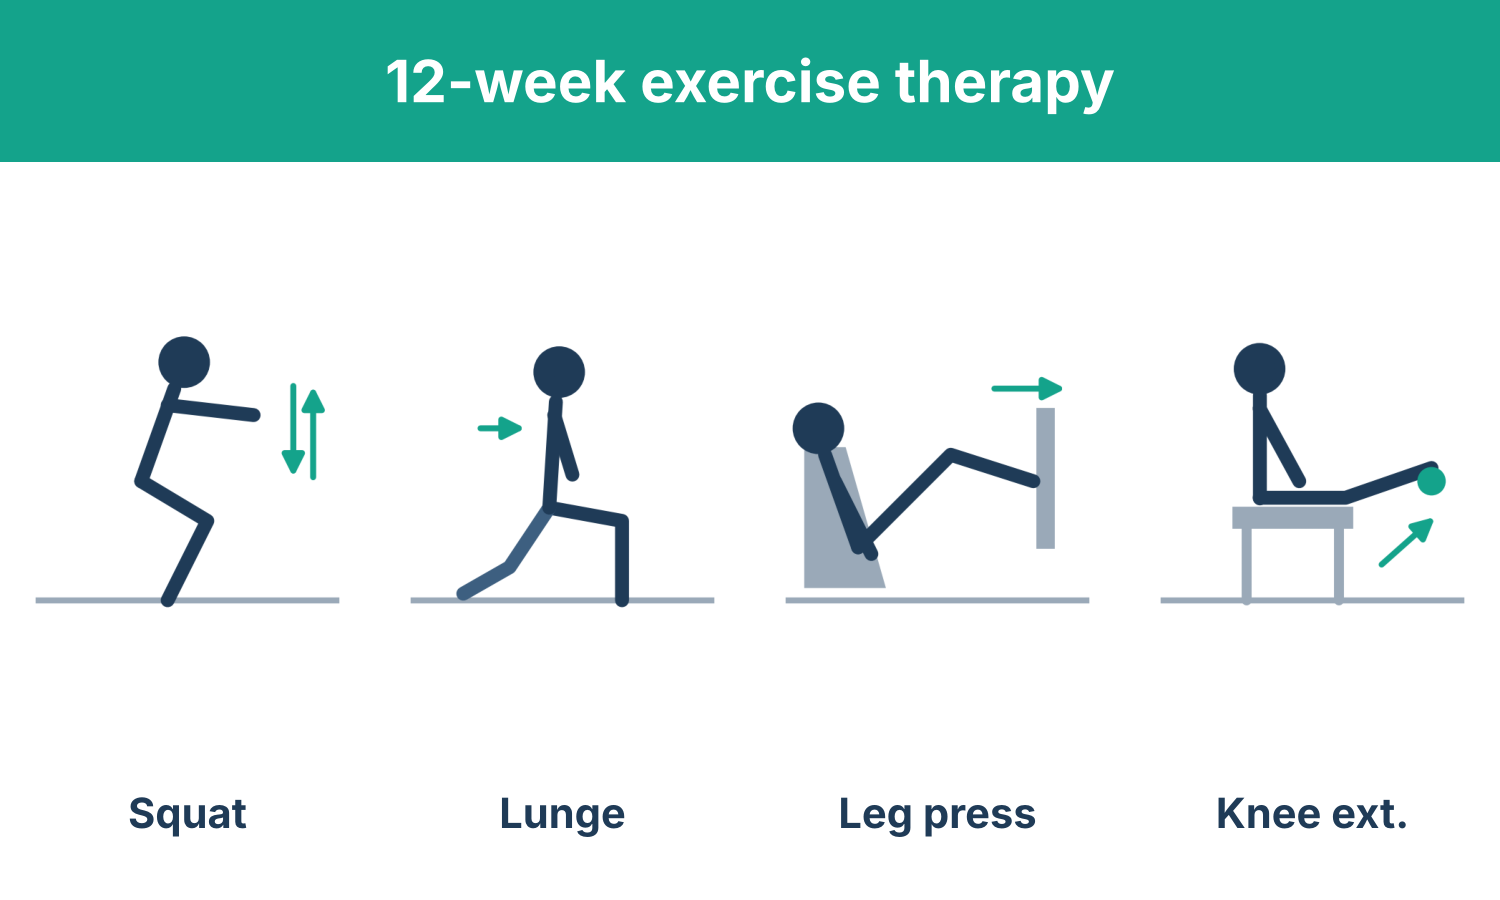
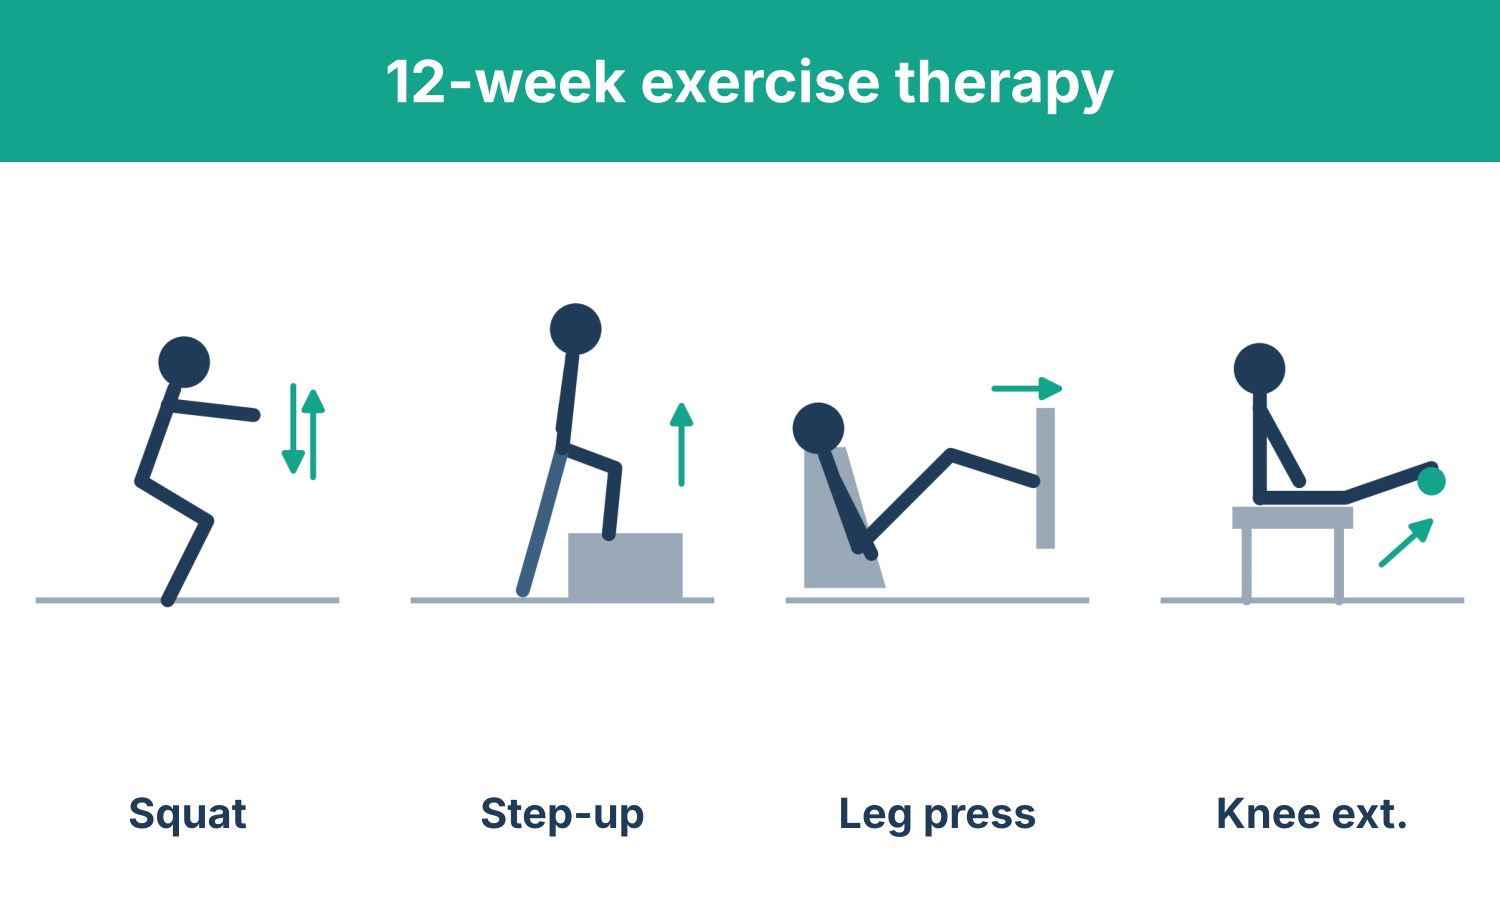
Replace lunge with step-up on cover exercise strip
Claude-Session: https://claude.ai/code/session_015yu1chgjRjg41XkdwnnPd4

Changed region(s): [[0.3067, 0.3422, 0.46, 0.6844], [0.3067, 0.8711, 0.4293, 0.9333]]

diff --git a/presentation/canva_images.py b/presentation/canva_images.py
@@ -139,7 +139,7 @@ f = plt.figure(figsize=(10, 6), dpi=150); f.patch.set_facecolor("white")
 ax = f.add_axes([0, 0.82, 1, 0.18]); ax.axis("off")
 ax.add_patch(Rectangle((0, 0), 1, 1, color=TEAL, transform=ax.transAxes))
 ax.text(0.5, 0.5, "12-week exercise therapy", color="white", fontsize=28, weight="bold", ha="center", va="center")
-for i, (img, lab) in enumerate([("squat", "Squat"), ("lunge", "Lunge"), ("legpress", "Leg press"), ("kneeext", "Knee ext.")]):
+for i, (img, lab) in enumerate([("squat", "Squat"), ("stepup", "Step-up"), ("legpress", "Leg press"), ("kneeext", "Knee ext.")]):
     a = f.add_axes([0.01 + i * 0.25, 0.18, 0.23, 0.6]); a.axis("off"); a.imshow(mpimg.imread(os.path.join(IMG, img + ".png")))
     f.text(0.125 + i * 0.25, 0.08, lab, fontsize=20, weight="bold", color=NAVY, ha="center")
 f.savefig(os.path.join(OUT, "program_landscape.png"), facecolor="white"); plt.close(f)
